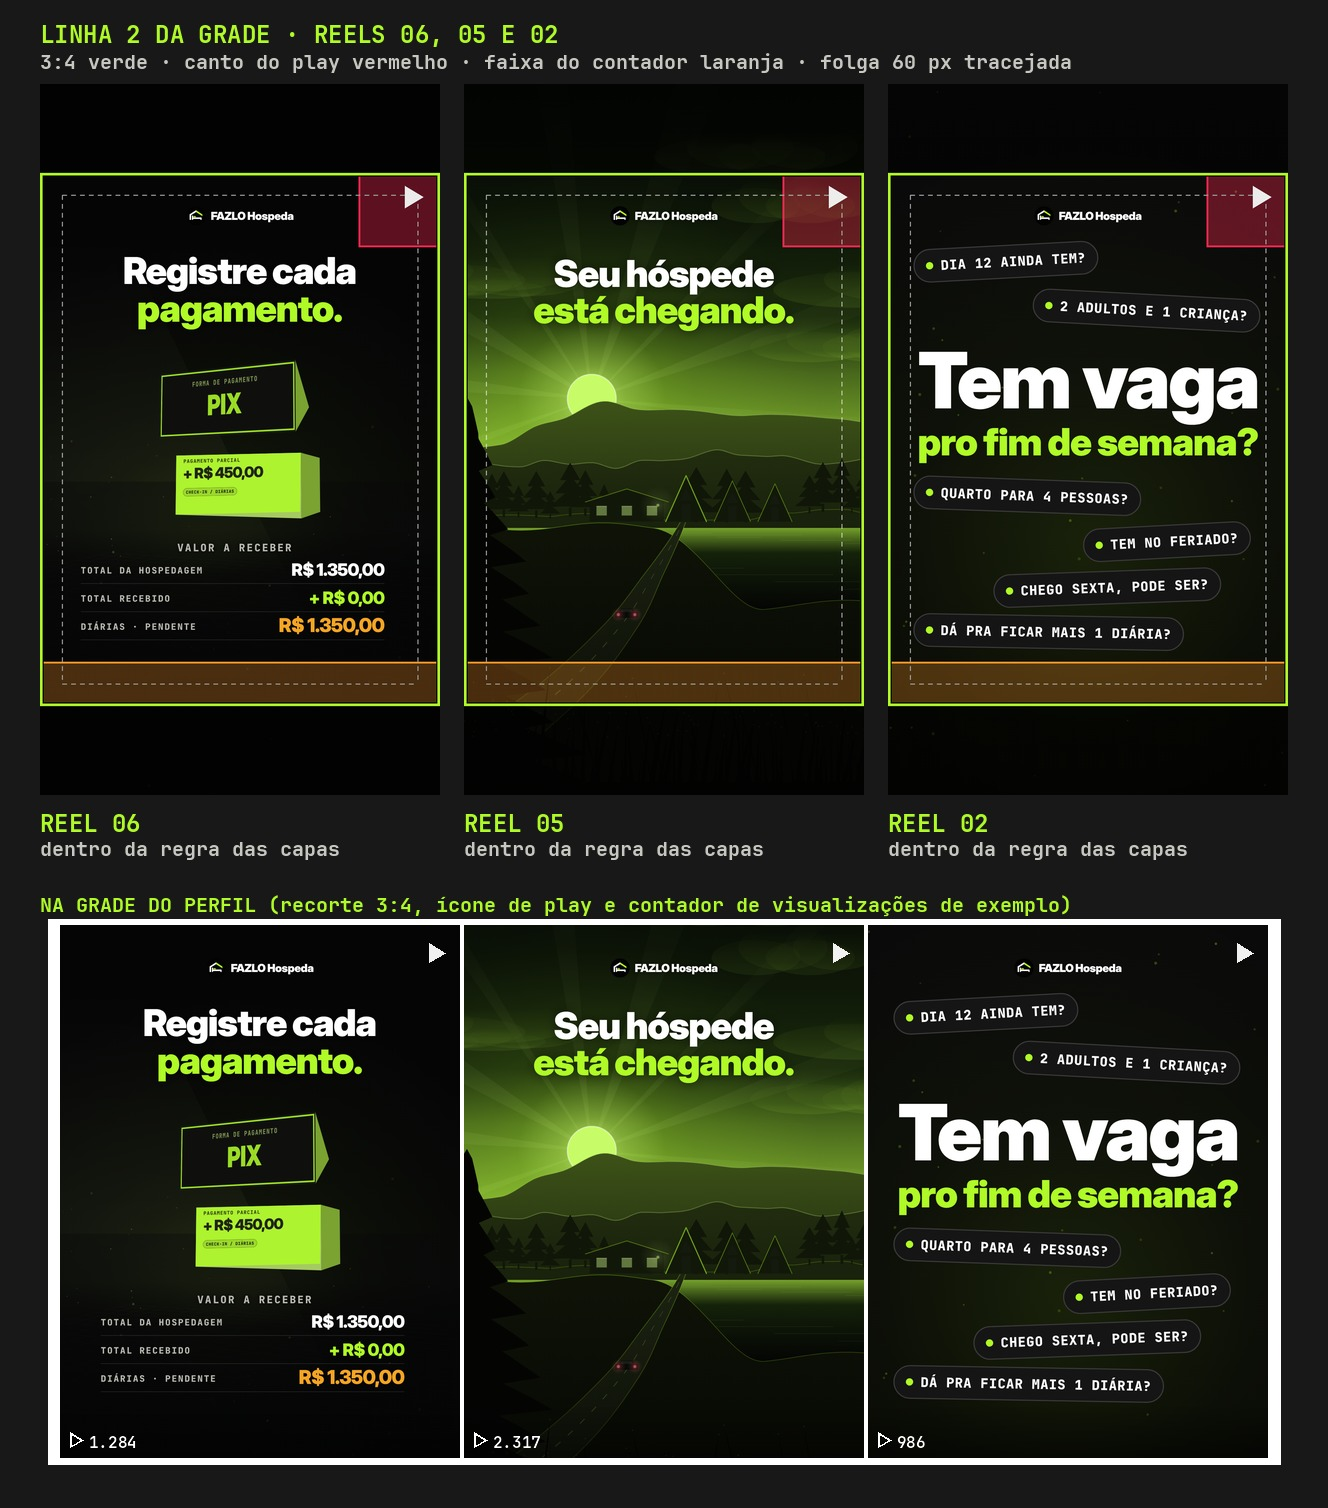
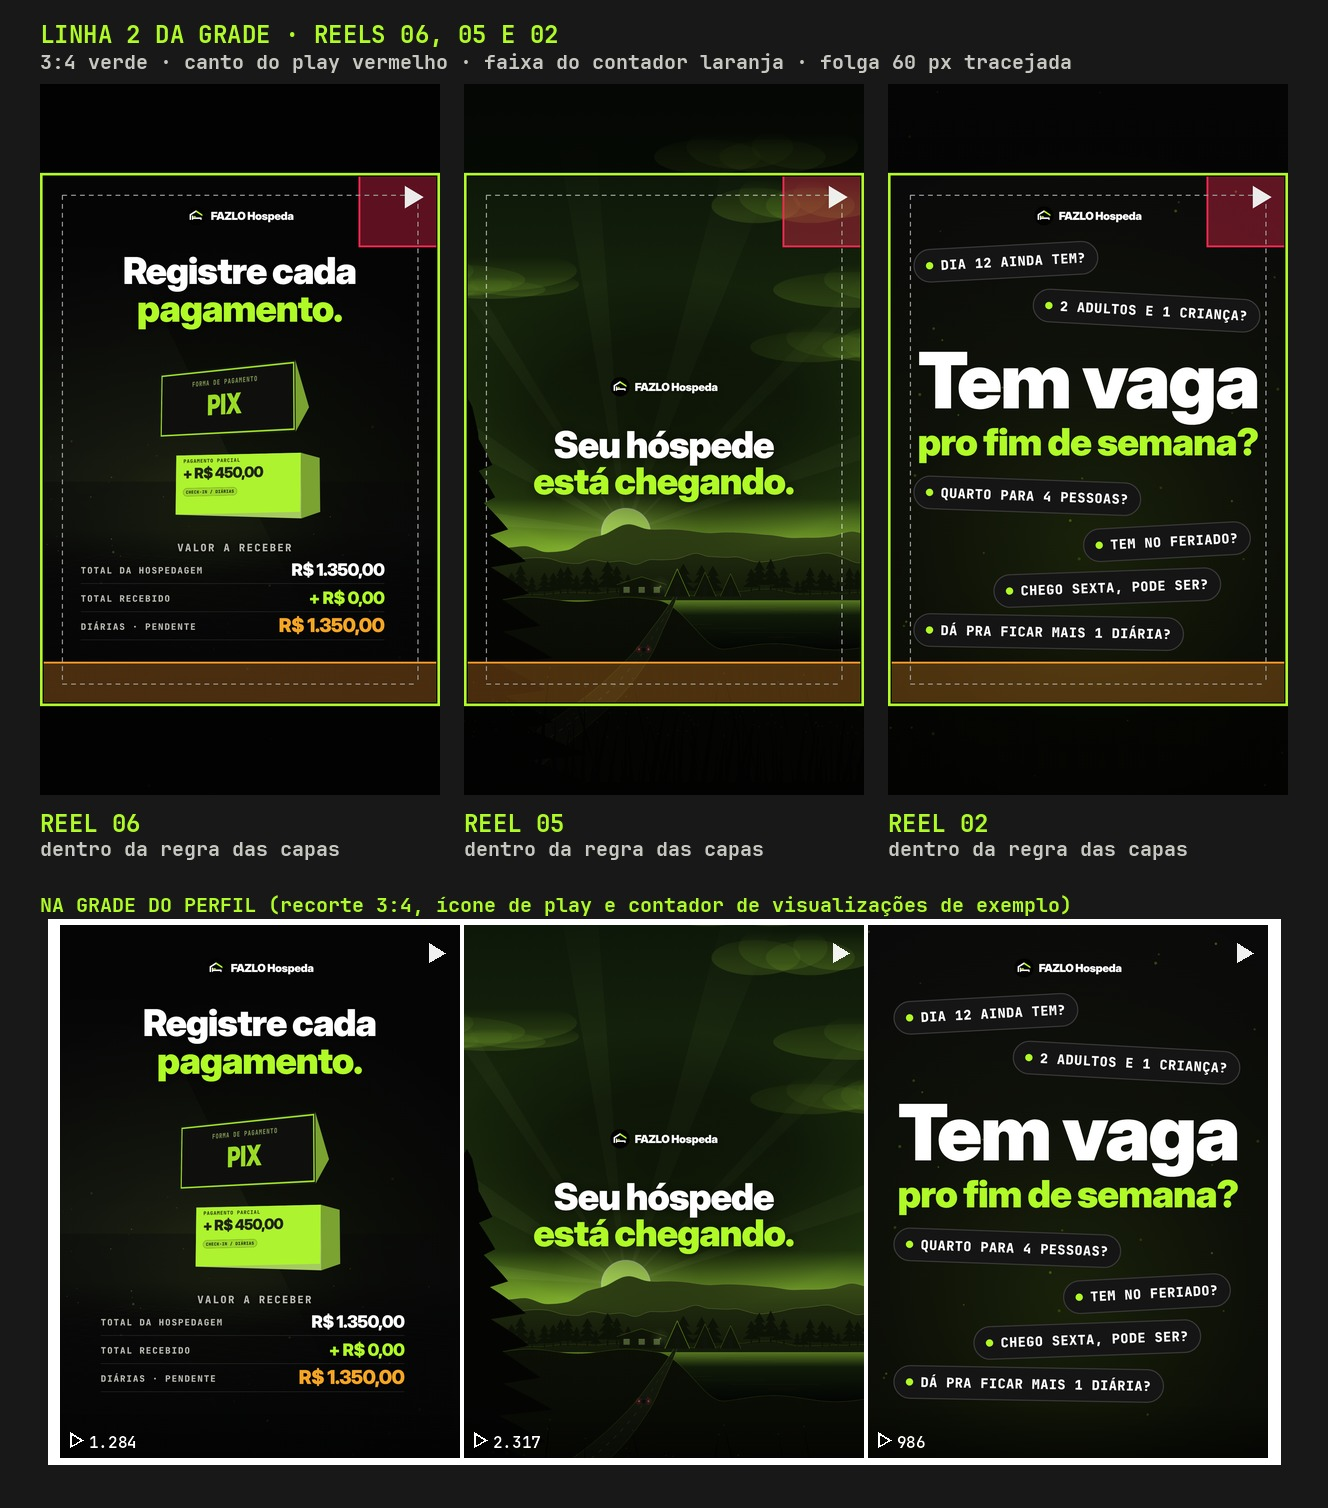
Reel 05: capa com o bloco de texto centralizado (centro em y = 960)
- Logo + "Seu hóspede / está chegando." nos mesmos tamanhos, centralizados
  na capa e no recorte 3:4 (x 540, y 791,5–1128,5)
- Paisagem ajustada para o texto não cobrir sol, serra e chalés: câmera
  afastada (zoom 0,6), sol nascendo logo abaixo do título, céu claro só no
  horizonte e escurecimento suave atrás do bloco
- Contraste igual ou maior que o da capa aprovada (17,4:1 e 12,2:1)
- Vídeo e anim.js intactos; prévias da grade atualizadas

Claude-Session: https://claude.ai/code/session_01VtfABab3CujWc3vKrYh53h

Changed region(s): [[0.3396, 0.6233, 0.6483, 0.935], [0.3396, 0.1247, 0.6483, 0.4363]]

diff --git a/reels/reel-05/src/capa.js b/reels/reel-05/src/capa.js
@@ -1,13 +1,22 @@
 /* =====================================================================
-   FAZLO Hospeda — REEL 05 · CAPA NOVA (1080x1920)
-   A mesma cena da capa anterior (a abertura do vídeo, ~2,0 s): o sol que
-   acabou de nascer sobre a serra, os pinheiros, a pousada e o carro do
-   hóspede subindo a estrada, com "Seu hóspede / está chegando.".
-   A paisagem é desenhada pelo próprio motor (anim.js, só lido), no mesmo
-   instante, sem o desfoque de movimento do vídeo. Correção em relação à
-   capa anterior: o título desce para o céu entre o topo e o sol, fora do
-   canto do ícone de play (lá, "chegando." ficava embaixo do ícone); a logo
-   pequena entra no alto, no mesmo lugar da capa do Reel 06.
+   FAZLO Hospeda — REEL 05 · CAPA (1080x1920)
+   A cena da abertura do vídeo (~2,0 s): o sol nascendo sobre a serra, os
+   pinheiros, a pousada e os chalés, o lago e o carro do hóspede subindo a
+   estrada, com a logo e "Seu hóspede / está chegando.".
+
+   Ajuste aprovado em outubro de 2026: o bloco de texto (logo + 2 linhas,
+   nos mesmos corpos) fica centralizado na capa e no recorte 3:4 — centro em
+   y = 960. Para o texto não cobrir a paisagem nem ficar sobre o brilho do
+   sol, a paisagem foi ajustada, não o texto:
+   - a câmera do motor se afasta (zoom 0,6, o mesmo mecanismo do vídeo), e a
+     serra, a pousada, o lago e a estrada com o carro ficam abaixo do título;
+   - o sol nasce logo abaixo do título, atrás da serra, com halo baixo (sol
+     de amanhecer) e os raios do vídeo;
+   - o céu clareia só perto do horizonte (no vídeo, o claro começava mais
+     alto), e um escurecimento suave e redondo atrás do bloco mantém o
+     contraste que o título tinha no alto da capa.
+   A paisagem é desenhada pelas funções do motor (anim.js, só lido); o céu e
+   o sol repetem o desenho de drawSky() com o horizonte mais baixo.
 
    Regra fixa das capas (reels/README.md): recorte 3:4 com folga de 60 px
    (x 60–1020, y 300–1620), canto do play livre (x ≥ 860, y 240–440),
@@ -17,21 +26,76 @@
 (function () {
   'use strict';
 
-  const W = 1080;
+  const W = 1080, H = 1920, TAU = Math.PI * 2;
   const I = REEL05._capa;
   const { C, DISPLAY } = I;
-  const TC = 2.0;                                // o quadro da capa anterior
-  const L = {
-    logoY: 356, logoD: 52,                       // a logo, pequena, acima do título (como no Reel 06)
-    size: 100, l1: 548, l2: 646,                 // título com o corpo do vídeo (100 px), descido de y 340 para 548
+  const TC = 2.0;                                // o instante da cena
+  // o bloco de texto: logo (52 px) + título (100 px), com os mesmos espaços da capa anterior
+  const T = { logoD: 52, size: 100, toL1: 192, lead: 98, center: 960 };
+  const BLOCK_H = T.logoD / 2 + T.toL1 + T.lead + 0.21 * T.size;   // do alto da logo ao pé do "g" de "chegando"
+  const L = {};
+  L.logoY = T.center - BLOCK_H / 2 + T.logoD / 2;
+  L.l1 = L.logoY + T.toL1;
+  L.l2 = L.l1 + T.lead;
+  // a paisagem
+  const P = {
+    z: 0.6, zc: [540, 1687],                     // câmera afastada em torno de um ponto abaixo do quadro
+    sky: { mid: 1120, hor: 1300 },               // o céu: cor do meio e do horizonte (no vídeo: 627 e 1140)
+    sun: { x: 437, y: 1212, glow: 0.3, rays: 1 },
+    veil: { y: 905, rx: 640, ry: 380, a: 0.65 },  // escurecimento suave atrás do bloco (elíptico, sem borda)
+    carBottom: 1532,                             // o carro sobe a estrada até ficar acima da faixa do contador
   };
   const BOXES = {};
   let LOGO = null;
 
   function init(img) { LOGO = img; }
 
+  // a câmera do motor (view() em anim.js) com zoom e centro escolhidos
+  function makeV(cx, cy, z, zc) {
+    return {
+      cx, cy, z, zc,
+      S(x, y, k) { const sx = x - cx * k, sy = y + cy * k; return [zc[0] + (sx - zc[0]) * z, zc[1] + (sy - zc[1]) * z]; },
+      layer(ctx, k) { ctx.translate(zc[0], zc[1]); ctx.scale(z, z); ctx.translate(-zc[0] - cx * k, -zc[1] + cy * k); },
+    };
+  }
+
+  // o céu e o sol, com o desenho de drawSky() (de manhã não há estrelas nem lua)
+  function sky(ctx, t, S, V) {
+    const g = ctx.createLinearGradient(0, 0, 0, P.sky.hor);
+    g.addColorStop(0, S.top); g.addColorStop(P.sky.mid / P.sky.hor, S.mid); g.addColorStop(1, S.hor);
+    ctx.fillStyle = g; ctx.fillRect(0, 0, W, H);
+    const { x, y } = P.sun, day = 1 - S.stars, burst = I.SUNBURST(t);
+    I.radial(ctx, x, y, 620, C.lime, 0.06 + (0.12 + 0.26 * S.glow) * P.sun.glow + 0.25 * burst);
+    I.radial(ctx, x, y, 200, C.limeL, 0.15 + 0.45 * P.sun.glow);
+    const ra = P.sun.rays * day * (0.1 + 0.12 * S.glow + 0.75 * burst);
+    if (ra > 0.004) {
+      ctx.save(); ctx.globalAlpha *= ra;
+      ctx.translate(x, y); ctx.rotate(t * 0.05);
+      for (let k = 0; k < 14; k++) {
+        const a = (k / 14) * TAU, w = 0.03 + 0.018 * (k % 3);
+        ctx.beginPath(); ctx.moveTo(0, 0); ctx.arc(0, 0, 1100, a - w, a + w); ctx.closePath();
+        const rg = ctx.createRadialGradient(0, 0, 60, 0, 0, 1100);
+        rg.addColorStop(0, I.rgba(C.limeL, 0.42)); rg.addColorStop(1, I.rgba(C.limeL, 0));
+        ctx.fillStyle = rg; ctx.fill();
+      }
+      ctx.restore();
+    }
+    I.circle(ctx, x, y, 66); I.fill(ctx, I.mix(C.lime, '#F4FFE0', 0.35));
+    I.circle(ctx, x, y, 66); I.stroke(ctx, I.rgba('#FFFFFF', 0.5), 3);
+    const off = I.cloudOff(t);
+    for (const c of I.CLOUDS) {
+      const cxp = ((c.x + off) % 1900) - 400, cyp = c.y + V.cy * 0.08;
+      ctx.save(); ctx.globalAlpha *= 0.55;
+      const cg = ctx.createLinearGradient(0, cyp - c.h, 0, cyp + c.h);
+      cg.addColorStop(0, I.rgba(I.mix(S.mid, S.hor, 0.5), 0.0)); cg.addColorStop(0.6, I.rgba(I.mix(S.mid, S.hor, 0.35), 0.55)); cg.addColorStop(1, I.rgba(S.hor, 0.35 * S.glow));
+      ctx.fillStyle = cg;
+      for (let j = 0; j < 4; j++) { ctx.beginPath(); ctx.ellipse(cxp + j * c.w * 0.22, cyp - (j % 2) * c.h * 0.4, c.w * 0.36, c.h * (0.7 + 0.2 * (j % 2)), 0, 0, TAU); ctx.fill(); }
+      ctx.restore();
+    }
+  }
+
   function title(ctx, s, y, color) {
-    const size = L.size, ls = -size * 0.03;
+    const size = T.size, ls = -size * 0.03;
     const w = I.tw(ctx, s, DISPLAY, size, 900, ls) - ls;
     ctx.save();
     ctx.shadowColor = 'rgba(0,0,0,0.55)'; ctx.shadowBlur = 30;
@@ -41,51 +105,66 @@
     return { x0: 540 - w / 2, x1: 540 + w / 2, y0: y - 0.73 * size, y1: y + (/[gpqj,]/.test(s) ? 0.21 : 0) * size };
   }
 
-  function render(ctx) {
+  // caixa do carro na tela (o desenho de car() em anim.js, no plano do chão)
+  function carBox(V, u) {
+    const q = I.roadAt(u), s = I.roadW(q.y) / 330, w = 230 * s, h = 92 * s, gl = 50 * s + 6;
+    const a = V.S(q.x - w / 2 - gl, q.y - h * 0.5 - h * 0.55, I.GROUND_K), b = V.S(q.x + w / 2 + gl, q.y - h * 0.5 + h * 0.47, I.GROUND_K);
+    return { x0: a[0], x1: b[0], y0: a[1], y1: b[1] };
+  }
+
+  function render(ctx, o = {}) {
     ctx.setTransform(1, 0, 0, 1, 0, 0); ctx.globalAlpha = 1; ctx.globalCompositeOperation = 'source-over';
     ctx.shadowBlur = 0; ctx.shadowColor = 'transparent';
-    const t = TC, S = I.skyAt(t), V = I.view(t), st = I.stateAt(t);
+    const t = TC, S = I.skyAt(t), V0 = I.view(t), st = I.stateAt(t);
+    const V = makeV(V0.cx, V0.cy, P.z, P.zc);
+    // o carro: o ponto mais perto da câmera (maior) em que ele fica acima da faixa do contador
+    let u = st.car;
+    while (carBox(V, u).y1 > P.carBottom && u < 1) u += 0.0025;
+    st.car = u;
     // a paisagem, na mesma ordem de frame() em anim.js
-    I.drawSky(ctx, t, S, V);
+    sky(ctx, t, S, V0);
     I.drawRidge(ctx, I.RIDGES[0], S, V);
     I.giantWord(ctx, t, V);
     I.drawRidge(ctx, I.RIDGES[1], S, V);
     I.drawHills(ctx, t, S, V, st);
+    const sun0 = I.SUN.splice(0, I.SUN.length, [0, P.sun.x, 850]);   // o reflexo do sol no lago, sob o sol da capa
     I.drawLake(ctx, t, S, V, st);
+    I.SUN.splice(0, I.SUN.length, ...sun0);
     I.drawGround(ctx, t, S, V, st);
     I.drawFireflies(ctx, t, S, V);
-    I.drawForeground(ctx, t, S, V);
+    I.drawForeground(ctx, t, S, V0);              // o mato e os pinheiros grandes da moldura, no tamanho do vídeo
     I.drawBirds(ctx, t);
     I.lanterns(ctx, t, V);
-    // véus de leitura: o do topo acompanha o título (no vídeo, 180–640), o da base é o do vídeo
-    const tv = ctx.createLinearGradient(0, 300, 0, 780);
-    tv.addColorStop(0, 'rgba(3,4,3,0.55)'); tv.addColorStop(1, 'rgba(3,4,3,0)');
-    ctx.fillStyle = tv; ctx.fillRect(0, 0, W, 780);
+    // véu da base (o do vídeo) e o escurecimento suave atrás do bloco de texto
     const bv = ctx.createLinearGradient(0, 1180, 0, 1560);
     bv.addColorStop(0, 'rgba(3,4,3,0)'); bv.addColorStop(1, 'rgba(3,4,3,0.5)');
     ctx.fillStyle = bv; ctx.fillRect(0, 1180, W, 740);
+    ctx.save(); ctx.translate(540, P.veil.y); ctx.scale(1, P.veil.ry / P.veil.rx);
+    const vg = ctx.createRadialGradient(0, 0, 0, 0, 0, P.veil.rx);
+    vg.addColorStop(0, `rgba(3,4,3,${P.veil.a})`); vg.addColorStop(0.55, `rgba(3,4,3,${P.veil.a * 0.75})`); vg.addColorStop(1, 'rgba(3,4,3,0)');
+    ctx.fillStyle = vg; ctx.fillRect(-P.veil.rx, -P.veil.rx, 2 * P.veil.rx, 2 * P.veil.rx);
+    ctx.restore();
+    if (o.semTexto) return;                       // (só para a conferência de contraste)
     // a logo, pequena: o símbolo oficial + o nome
     {
       const name = 'FAZLO Hospeda', nw = I.tw(ctx, name, DISPLAY, 30, 900, -0.6), gap = 14;
-      const x = 540 - (L.logoD + gap + nw) / 2;
+      const x = 540 - (T.logoD + gap + nw) / 2;
       ctx.imageSmoothingEnabled = true; ctx.imageSmoothingQuality = 'high';
-      ctx.drawImage(LOGO, x, L.logoY - L.logoD / 2, L.logoD, L.logoD);
-      I.txt(ctx, name, x + L.logoD + gap, L.logoY + 11, { fam: DISPLAY, size: 30, weight: 900, color: C.white, ls: -0.6, shadow: 'rgba(0,0,0,0.5)', blur: 16 });
-      BOXES['logo'] = { x0: x, x1: x + L.logoD + gap + nw, y0: L.logoY - L.logoD / 2, y1: L.logoY + L.logoD / 2 };
+      ctx.drawImage(LOGO, x, L.logoY - T.logoD / 2, T.logoD, T.logoD);
+      I.txt(ctx, name, x + T.logoD + gap, L.logoY + 11, { fam: DISPLAY, size: 30, weight: 900, color: C.white, ls: -0.6, shadow: 'rgba(0,0,0,0.5)', blur: 16 });
+      BOXES['logo'] = { x0: x, x1: x + T.logoD + gap + nw, y0: L.logoY - T.logoD / 2, y1: L.logoY + T.logoD / 2 };
     }
-    // título
     BOXES['título, linha 1'] = title(ctx, 'Seu hóspede', L.l1, C.white);
     BOXES['título, linha 2'] = title(ctx, 'está chegando.', L.l2, C.lime);
-    // caixas da cena (o sol e a pousada são fundo; o carro tem de aparecer inteiro, fora da faixa do contador)
-    const [sx, sy] = I.keyed2(I.SUN, t), suy = sy + V.cy * 0.06;
-    BOXES['sol'] = { x0: sx - 66, x1: sx + 66, y0: suy - 66, y1: suy + 66, cena: true };
+    // caixas da cena (o sol, a serra e a pousada são fundo; o carro tem de aparecer inteiro, fora da faixa do contador)
+    BOXES['sol'] = { x0: P.sun.x - 66, x1: P.sun.x + 66, y0: P.sun.y - 66, y1: P.sun.y + 66, cena: true };
     const hs0 = I.HOUSES[0], hs1 = I.HOUSES[I.HOUSES.length - 1];
     const a = V.S(hs0.x - hs0.w / 2, I.PLATEAU - Math.max(...I.HOUSES.map((h) => h.h)), 0.5), b = V.S(hs1.x + hs1.w / 2, I.PLATEAU + 4, 0.5);
     BOXES['pousada'] = { x0: a[0], x1: b[0], y0: a[1], y1: b[1], cena: true };
-    const q = I.roadAt(st.car), s = I.roadW(q.y) / 330, w = 230 * s, h = 92 * s, gl = 50 * s + 6;
-    const c0 = V.S(q.x - w / 2 - gl, q.y - h * 0.5 - h * 0.55, I.GROUND_K), c1 = V.S(q.x + w / 2 + gl, q.y - h * 0.5 + h * 0.47, I.GROUND_K);
-    BOXES['carro'] = { x0: c0[0], x1: c1[0], y0: c0[1], y1: c1[1] };
+    BOXES['carro'] = carBox(V, st.car);
   }
 
-  window.REEL05CAPA = { init, render, boxes: () => JSON.parse(JSON.stringify(BOXES)) };
+  // o centro do bloco de texto (do alto da logo ao pé do "g" de "chegando")
+  const block = () => ({ y0: L.logoY - T.logoD / 2, y1: L.l2 + 0.21 * T.size, centro: (L.logoY - T.logoD / 2 + L.l2 + 0.21 * T.size) / 2 });
+  window.REEL05CAPA = { init, render, block, boxes: () => JSON.parse(JSON.stringify(BOXES)) };
 })();

diff --git a/reels/reel-05/src/capa.html b/reels/reel-05/src/capa.html
@@ -31,7 +31,7 @@
     const anchor = 'window.REEL05 = {';
     if (!src.includes(anchor)) throw new Error('anim.js: ponto de leitura não encontrado');
     (0, eval)(src.replace(anchor, anchor + `
-    _capa: { skyAt, view, stateAt, drawSky, drawRidge, RIDGES, giantWord, drawHills, drawLake, drawGround, drawFireflies, drawForeground, drawBirds, lanterns, roadAt, roadW, keyed2, SUN, GROUND_K, HOUSES, PLATEAU, txt, tw, C, DISPLAY, MONO },`));
+    _capa: { skyAt, view, ridgeY, hillY, SUNBURST, cloudOff, CLOUDS, radial, circle, fill, stroke, mix, rgba, stateAt, drawSky, drawRidge, RIDGES, giantWord, drawHills, drawLake, drawGround, drawFireflies, drawForeground, drawBirds, lanterns, roadAt, roadW, keyed2, SUN, GROUND_K, HOUSES, PLATEAU, txt, tw, C, DISPLAY, MONO },`));
     await loadScript('capa.js');
     const fonts = [600, 700, 800, 900].map((w) => document.fonts.load(`${w} 100px 'R5 Display'`))
       .concat([500, 700, 800].map((w) => document.fonts.load(`${w} 100px 'R5 Mono'`)));

diff --git a/reels/reel-05/README.md b/reels/reel-05/README.md
@@ -111,9 +111,17 @@ Trilha e efeitos **sintetizados do zero** em Python (numpy/scipy), sem samples, 
 
 ## Capa
 
-A **capa atual** (outubro de 2026) é a mesma cena da capa que está no perfil — a abertura do vídeo (~2,0 s): o sol que acabou de nascer sobre a serra, os pinheiros, a pousada e o carro do hóspede subindo a estrada, com **"Seu hóspede / está chegando."** no corpo do vídeo (100 px). A paisagem é desenhada pelo próprio motor no mesmo instante, sem o desfoque de movimento. Correção: o título desceu de y 340 para 548, no céu entre o topo e o sol — antes, "chegando." ficava embaixo do ícone de play; a logo entra pequena no alto, no mesmo lugar das capas dos Reels 06 e 02. O carro fica em y ≈ 1416–1442, acima da faixa do contador.
+A **capa atual** (outubro de 2026) é a cena da abertura do vídeo (~2,0 s): o sol nascendo sobre a serra, os pinheiros, a pousada com os chalés, o lago e o carro do hóspede subindo a estrada, com a logo e **"Seu hóspede / está chegando."** (título com o corpo do vídeo, 100 px; logo de 52 px).
 
-Segue a **regra fixa das capas** ([`../README.md`](../README.md)). Como a paisagem vai de ponta a ponta, a conferência usa as caixas de cada elemento (`--cena`): título e logo dentro do recorte 3:4 com folga de 60 px, fora do canto do play e da faixa do contador (y 1560–1680); o sol e a pousada inteiros dentro do recorte. `src/capa.html` lê o `anim.js` como texto e o avalia com uma linha a mais, que expõe as peças de desenho para `src/capa.js`; o arquivo do motor e o vídeo não mudam. A capa que estava no repositório ("Da chegada à saída." com CHECK-IN) ficou em [`output/capa-anterior.png`](output/capa-anterior.png).
+**Ajuste de posição (aprovado):** o bloco de texto — do alto da logo ao pé do "g" de "chegando" (y 791,5–1128,5) — fica **centralizado em y = 960**, o centro da capa e do recorte 3:4, e em x = 540, com os mesmos tamanhos e espaços. No lugar novo, o título cobriria o sol, a serra e os telhados dos chalés, e "está chegando." ficaria sobre o brilho do sol; por isso foi ajustada a paisagem, não o texto:
+
+- a câmera do motor se afasta (zoom 0,6, o mesmo mecanismo das aproximações do vídeo): a serra, a pousada, o lago e a estrada ficam inteiros abaixo do título, e o carro sobe um pouco a estrada para ficar acima da faixa do contador (y 1517–1532);
+- o sol **nasce logo abaixo do título** (disco em y 1146–1278, meio escondido pela serra), com os raios do vídeo e um halo mais baixo — "está chegando." não fica sobre o brilho;
+- o céu clareia só perto do horizonte, e um **escurecimento suave e elíptico** atrás do bloco (sem borda, não aparece como caixa nem faixa) mantém o contraste.
+
+**Contraste** (letra × fundo atrás dela, medido sem o texto): "Seu hóspede" 17,4:1 (antes, no alto da capa: 14,5:1), "está chegando." 12,2:1 (antes: 9,3:1), nome da logo 18,2:1 (antes: 18,0:1) — igual ou maior em tudo.
+
+Segue a **regra fixa das capas** ([`../README.md`](../README.md)). Como a paisagem vai de ponta a ponta, a conferência usa as caixas de cada elemento (`--cena`): logo e título dentro do recorte 3:4 com folga de 60 px, fora do canto do play e da faixa do contador (y 1560–1680); o sol e a pousada inteiros dentro do recorte. `src/capa.html` lê o `anim.js` como texto e o avalia com uma linha a mais, que expõe as peças de desenho para `src/capa.js` (a câmera, o céu e o sol repetem o desenho de `view()` e `drawSky()`, com o horizonte mais baixo); o arquivo do motor e o vídeo não mudam. A capa que estava no repositório antes desta série ("Da chegada à saída." com CHECK-IN) ficou em [`output/capa-anterior.png`](output/capa-anterior.png).
 
 ```bash
 node scripts/capa.cjs                                                        # output/capa.png

diff --git a/reels/README.md b/reels/README.md
@@ -39,4 +39,4 @@ A grade do perfil mostra só o centro 3:4 da capa e põe o ícone de play no can
 
 Conferência: `python3 reels/tools/revisao_capa.py reels/reel-NN --vizinhos reels/reel-07 reels/reel-06` gera `capa.jpg`, a prévia `revisao/capa-no-feed.jpg` (recorte 3:4, folga, canto do play e faixa do contador marcados, a capa na grade ao lado das vizinhas) e `revisao/capa.txt`. A checagem pelos pixels trata como conteúdo tudo o que se destaca da cor de fundo dominante (escura ou clara, como o limão do Reel 03) — gravações e brilhos sutis do fundo não contam; para capas com cena de fundo de ponta a ponta (a paisagem do Reel 05), o `--cena` faz valer as caixas de cada elemento (`revisao/capa-caixas.json`, exportadas pela página da capa), que também conferem se um elemento cobre outro.
 
-**Linha da grade:** `python3 reels/tools/previa_linha.py reels/reel-06 reels/reel-05 reels/reel-02 --saida reels/grade/linha-2-reels-06-05-02.jpg` monta as capas lado a lado, na ordem do perfil: em cima, cada capa 9:16 com o recorte 3:4, o canto do play, a faixa do contador e a folga marcados; embaixo, a linha como a grade mostra (recorte 3:4, ícone de play e um contador de visualizações de exemplo). Prévias em [`grade/`](grade) — linha 2 (Reels 06, 05 e 02): [`grade/linha-2-reels-06-05-02.jpg`](grade/linha-2-reels-06-05-02.jpg). Nas capas dessa linha a logo pequena fica no mesmo lugar (alto, centro, y ≈ 330–382), o que alinha as três na grade.
+**Linha da grade:** `python3 reels/tools/previa_linha.py reels/reel-06 reels/reel-05 reels/reel-02 --saida reels/grade/linha-2-reels-06-05-02.jpg` monta as capas lado a lado, na ordem do perfil: em cima, cada capa 9:16 com o recorte 3:4, o canto do play, a faixa do contador e a folga marcados; embaixo, a linha como a grade mostra (recorte 3:4, ícone de play e um contador de visualizações de exemplo). Prévias em [`grade/`](grade) — linha 2 (Reels 06, 05 e 02): [`grade/linha-2-reels-06-05-02.jpg`](grade/linha-2-reels-06-05-02.jpg). Nas capas dos Reels 06 e 02 a logo pequena fica no alto, no centro (y ≈ 330–382); na do Reel 05, o bloco logo + título está centralizado na capa (centro em y = 960), a pedido.
